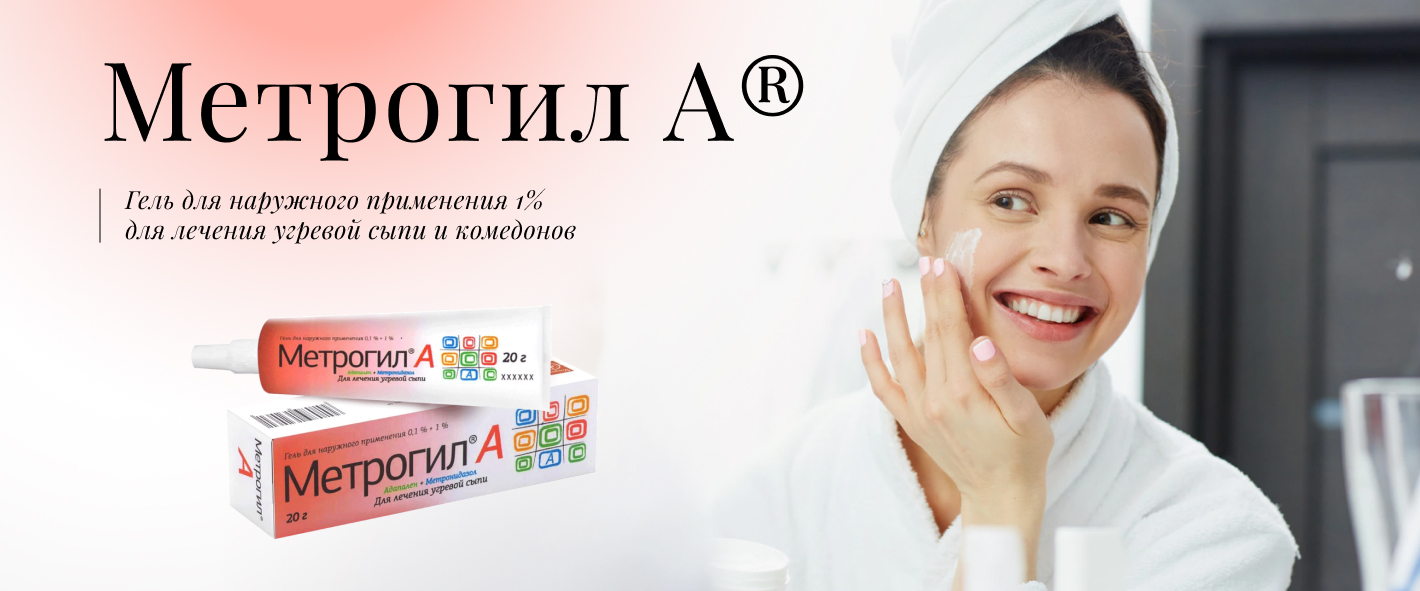
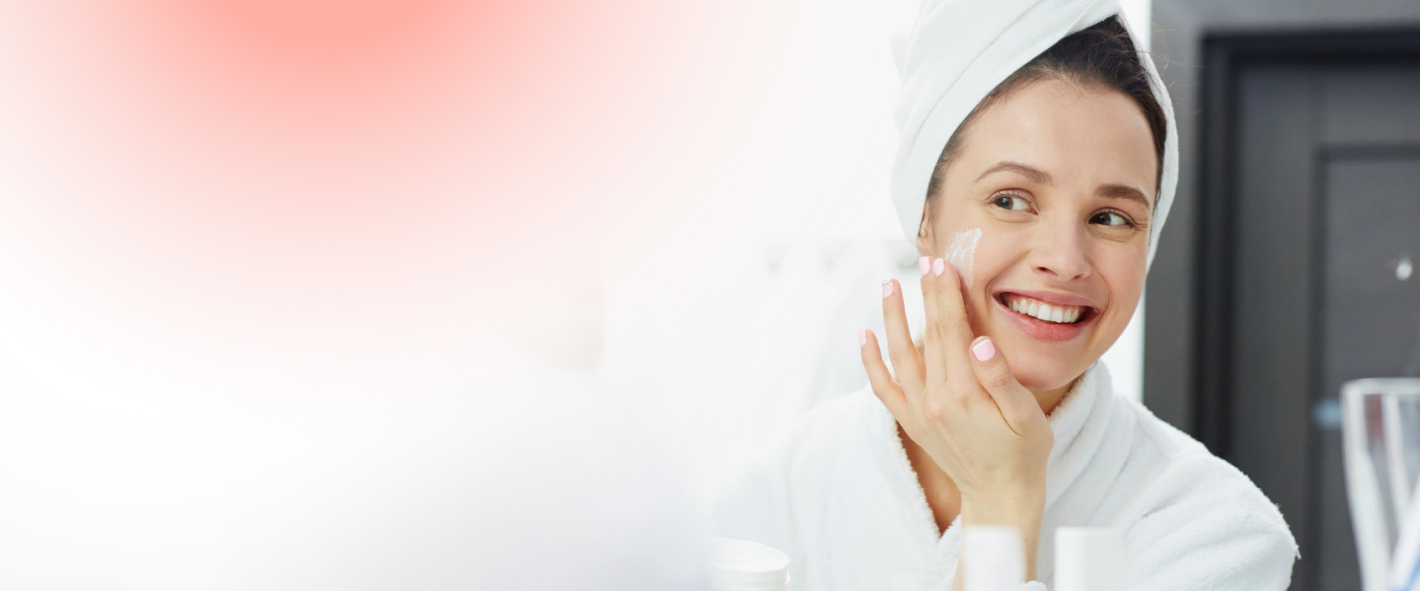
styles 2 slide

Changed region(s): [[0.1239, 0.5178, 0.4338, 0.9137], [0.062, 0.0914, 0.5887, 0.2741], [0.093, 0.335, 0.4028, 0.4264]]

diff --git a/css/plato.css b/css/plato.css
@@ -38,6 +38,15 @@
 	margin-bottom: 42px;
 	max-width: 700px;
 }
+.hero__caption-2 {
+	font-family: 'Playfair';
+	font-style: normal;
+	font-weight: 400;
+	font-size: 110px;
+	line-height: 1em;
+	letter-spacing: 0.02em;
+	color: #000000;
+}
 .hero__caption-3 {
 	font-family: 'Playfair';
 	font-style: normal;
@@ -60,7 +69,17 @@
 	color: #FFFFFF;
 	opacity: .7;
 }
-
+.hero__description-2 {
+	font-family: 'Playfair';
+	font-style: italic;
+	font-weight: 400;
+	font-size: 25px;
+	line-height: 120%;
+	letter-spacing: 0.02em;
+	color: #000000;
+	margin-top: 26px;
+	margin-left: 30px;
+}
 .hero__description-3 {
 	font-family: 'Geometria';
 	font-style: normal;
@@ -71,6 +90,23 @@
 	color: #000000;
 	max-width: 468px;
 	display: flex;
+}
+.hero-view-wrp-description {
+	max-width: 515px;
+	position: relative;
+}
+.hero__description-2-line {
+	width: 1px;
+	height: 100%;
+	background: #000000;
+	position: absolute;
+	top: 0px;
+	left: 0px;
+}
+.hero-view__img-2 {
+	max-width: 421px;
+	margin-left: 77px;
+    margin-top: 25px;
 }
 
 .hero__description-line {

diff --git a/plato.html b/plato.html
@@ -83,6 +83,18 @@
 				</div>
 				<div class="slider-item-1">
 					<div class="hero-bg hero-bg-2"></div>
+					<div class="hero-view">
+						<h1 class="hero__caption-2">Метрогил А® </h1>
+						<div class="hero-view-wrp-description">
+							<div class="hero__description-2-line"></div>
+							<div class="hero__description-2">
+								Гель для наружного применения 1% 
+								для лечения угревой сыпи и комедонов
+							</div>
+						</div>
+						<img class="hero-view__img-2" src="images/metrogil-a-new.svg" alt="">
+
+					</div>
 				</div>
 				<div class="slider-item-1">
 					<div class="hero-bg-3"></div>
